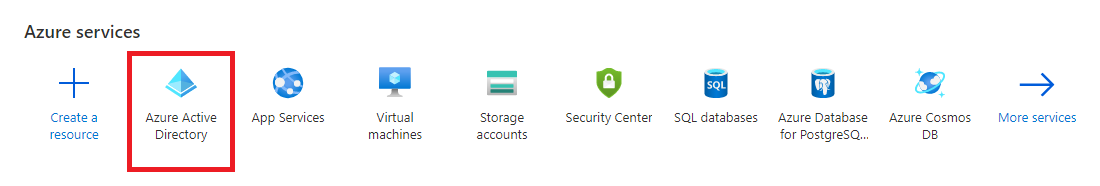
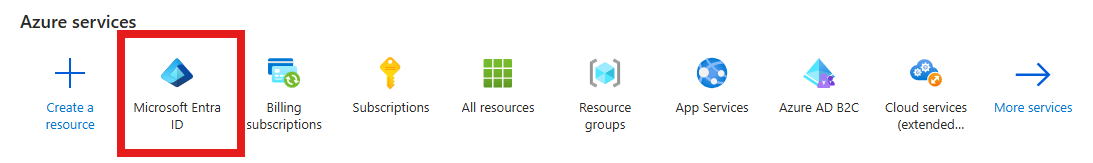
Update Microsoft Auth Docs
Update from Azure AD to Entra ID and add Graph API and Entra ID authentication

diff --git a/OAuth-O365/index.html b/OAuth-O365/index.html
@@ -1,20 +1,25 @@
 ---
 layout: default
-title: OAuth Setup for Micosoft Services
+title: OAuth Setup for Microsoft Services
 ---
 <h1>OAuth Setup for Microsoft Services</h1> 
 
-<p><span class="label label-important">Note</span>This feature is not available in versions of Gemini prior to 7.1.0</p>
+<p><span class="label label-important">Note</span>This feature is not available in versions of Gemini before 7.1.0</p>
 
-<p>Configuring OAuth is a two-step process. First you configure Microsoft Services to know about Gemini. Then you configure Gemini to use these services.</p>
+<p>Configuring OAuth is a two-step process. First, you configure Microsoft Services to know about Gemini. Then you configure Gemini to use these services.</p>
+<br></br>
+<p><span class="label label-important">Note</span>This feature is not available in versions of Gemini before 7.1.0</p>
+<br></br>
+<p><span class="label label-important">Note</span>The App Registration you set up in Azure can be used for Gemini's Graph API integration as well as for Breeze Mailboxes and SMTP</p>
+
 <h2>Microsoft 365 Configuration</h2>
 <h3>Create an application in Azure</h3>
 
-<p>Navigate to the Azure Portal and login (at the time of writing, this was Portal.Azure dotcom).</p>
-<p>On the menu of services, select Azure Active Directory.</p>
+<p>Navigate to the Azure Portal and login (Portal.Azure dotcom).</p>
+<p>On the menu of services, select Microsoft Entra ID.</p>
 <p><img src="AZPortal1.png" /></p>
 
-<p>Select Azure App Registrations</p>
+<p>Select App Registrations</p>
 <p><img src="AZPortal2.png" /></p>
 
 <p>If this is the first time you are setting this up, add a new application registration.</p>
@@ -42,7 +47,14 @@ title: OAuth Setup for Micosoft Services
 <p><img src="AZPortal8.png" /></p>
 <p><img src="AZPortal9.png" /></p>
 
-<p>Enter the Redirect URI. This will be in the format https://yourServer.com/Admin/OAuthCallback, where yourServer.com is the url of your Gemini instance.</p>
+<p>Enter the Redirect URI.</p>
+<p><span class="label label-important">Breeze Redirect URI</span>This will be in the format https://yourServer.com/Admin/OAuthCallback, where yourServer.com is the url of your Gemini instance.</p>
+<p><span class="label label-important">Entra ID Redirect URI</span>This will be in the format https://yourServer.com/account/postentralogin, where yourServer.com is the url of your Gemini instance.</p>
+<br></br>
+<p><i>You can use the same App Registration (TenantId, Client Id, and Client Secret) for <b>Entra ID, Breeze Mailboxes, SMTP, and Graph API</b> because you can specify multiple Redirect URIs for one App Registration.</i></p>
+<br></br>
+
+
 <p><img src="AZPortal10.png" /></p>
 <p><span class="label label-important">Note</span>Your Gemini site must be hosted on an SSL connection (https) as http redirects are not permitted.</p>
 
@@ -61,6 +73,7 @@ title: OAuth Setup for Micosoft Services
 
 <h2>Gemini Mailbox Configuration</h2>
 <p>To use OAuth with Gemini mailboxes, you can choose to configure the connection as Exchange(EWS) or IMAP<p>
+<p><span class="label label-warning">Note</span> Microsoft has announced that EWS will be deprecated in October 2026. We therefore recommend you choose IMAP or, if you are on Gemini 7.6.0 or above, Graph API.</p>
 
 <h3>IMAP Configuration</h3>
 <p><img src="gemini_mailbox1.png" /></p>
